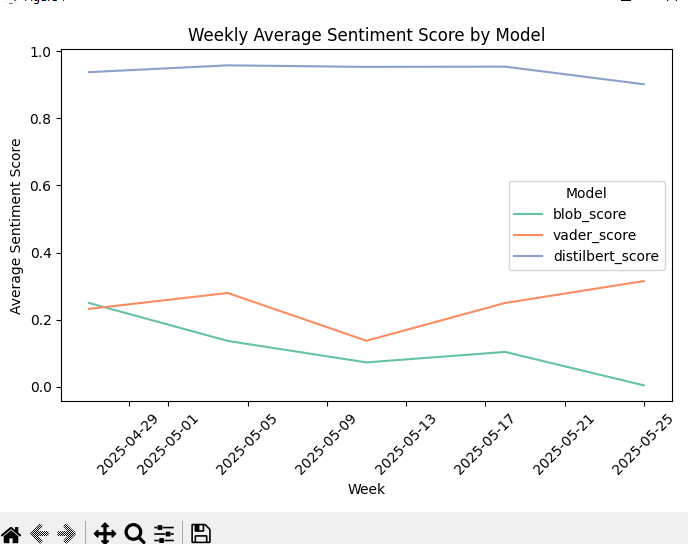
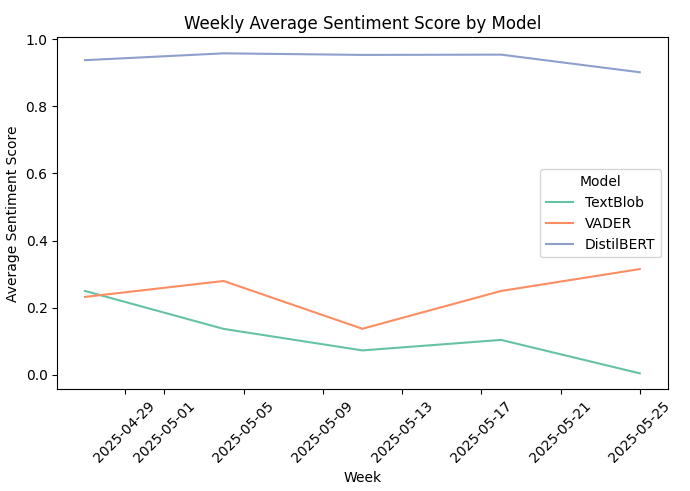
Added comments and updated plot

diff --git a/news_sentiment_analysis.py b/news_sentiment_analysis.py
@@ -1,4 +1,3 @@
-import numpy as np
 import pandas as pd
 import json
 import datetime
@@ -8,6 +7,10 @@ from textblob import TextBlob
 from nltk.sentiment.vader import SentimentIntensityAnalyzer
 from transformers import pipeline
 
+'''
+    Using api key to get the news articles on a specific topic from NewsAPI
+    saving the json data in a json file for easier access
+'''
 # API_key = 'YourAPIKey'
 
 # newsapi = NewsApiClient(API_key)
@@ -16,6 +19,10 @@ from transformers import pipeline
 # with open('newsapi_data.json', 'w') as json_file:
 #         json.dump(all_articles, json_file, indent=4)
 
+
+
+# TextBlob is a Python library that returns Polarity scores
+# Based on this score the Positive, Negative, and Neutral labels are determined
 def apply_textblob(text):
     blob = TextBlob(text)
     polarity = blob.sentiment.polarity
@@ -26,6 +33,8 @@ def apply_textblob(text):
     )
     return sentiment, round(polarity, 3)
 
+# VADER is a rule-based sentiment analysis tool that returns Positive, Negative, Neutral and Compound scores
+# Higher Compound value means the text is Positive and lower means Negative otherwise it's Neutral
 def apply_vader(text):
     vader = SentimentIntensityAnalyzer()
     polarity = vader.polarity_scores(text)['compound']
@@ -36,30 +45,42 @@ def apply_vader(text):
     )
     return sentiment, round(polarity, 3)
 
+# using a pre-trained sentiment analysis model from Hugging Face that returns only Positive and Negative sentiments
 def apply_distilbert(text):
     distilbert = pipeline("sentiment-analysis", model="distilbert-base-uncased-finetuned-sst-2-english", framework="pt")
     results = distilbert(text)
 
     return results 
 
+# using a pre-trained classification model from Hugging Face that returns multi-label sentiments from texts
 def apply_roberta(text):
     roberta = pipeline("text-classification", model="j-hartmann/emotion-english-distilroberta-base", 
                     framework="pt")
     results = roberta(text)
     return results 
 
-
+# using encoding= utf-8 to get all characters including non-english (if exist)
 with open("newsapi_data.json", 'r', encoding='utf-8') as json_file:
     data = json.load(json_file)
 
+# storing the 'articles' list from the json file
 if "articles" in data:
     articles = data["articles"]
 
 contents = []
 for article in articles:
+    '''
+        looping through every article and making the title and description into one content to apply the models
+        only using raw texts to see how each model performs on the same content
+        TextBlob and VADER can process one content at a time but DistilBERT and RoBERTa makes the program slow
+        for this reason we created the contents list for those two models
+        using contents in a batch to train the models
+    '''
     content = f"{article.get('title', '')}.{article.get('description','')}"
     contents.append(content)
 
+    # the models return the label and the score used to determine the labels
+    # storing these values in new label and score for every model columns
     blob_label, blob_score = apply_textblob(content)
     article['blob_label'] = blob_label
     article['blob_score'] = blob_score
@@ -68,11 +89,14 @@ for article in articles:
     article['vader_label'] = vader_label
     article['vader_score'] = vader_score
     
+    # Changed the date format and set it to year-month-day format
     date = article.get('publishedAt', '')
     date = datetime.datetime.strptime(date, '%Y-%m-%dT%H:%M:%SZ')
     date = date.strftime('%Y-%m-%d')
     article['date'] = date
 
+# these two models return the labels and scores in a list of dictionaries
+# using contents in a batch to make the program faster
 distilbert_results = apply_distilbert(contents)
 for article, result in zip(articles, distilbert_results):
     article['distilbert_label'] = result['label']
@@ -86,10 +110,10 @@ for article, result in zip(articles, roberta_results):
 # Turning the list into a pandas dataframe
 df = pd.DataFrame(articles)
 df = df.drop(['author', 'title', 'description', 'publishedAt', 'url', 'urlToImage', 'content'], axis=1)
-df['source'] = [s.get('name', '') for s in df['source']]
+df['source'] = [s.get('name', '') for s in df['source']] # 'source' is a dictionary and I'm choosing to keep only the name
 
 # Selecting the final columns
 df = df[['date', 'source', 'blob_label', 'blob_score', 'vader_label', 'vader_score',
               'distilbert_label', 'distilbert_score', 'roberta_label', 'roberta_score']]
 
-# df.to_csv('news_data.csv', index=False)
+# df.to_csv('news_data.csv', index=False) # saved the df to csv to use it for the plots

diff --git a/news_plot.py b/news_plot.py
@@ -17,7 +17,7 @@ ax = ax.flatten() # this turns the nested array into a single array. it helps to
 
 ###### Plotting the model sentiments #######
 for i, model in enumerate(models):
-    sns.countplot(x=df[model], palette='rainbow', ax=ax[i])
+    sns.countplot(x=df[model], palette='rainbow', ax=ax[i]) # like a bar chart it shows the occurences of classes
 
     ax[i].set_title(f'Sentiment Distribution of {titles[i]}')
     ax[i].set_xlabel('Sentiment')
@@ -26,14 +26,33 @@ for i, model in enumerate(models):
 
 ######### Plotting average model scores per week ######## 
 # Resampling to weekly averages
-df['date'] = pd.to_datetime(df['date'])
+df['date'] = pd.to_datetime(df['date']) # turning into datetime object to set it to index
 df.set_index('date', inplace=True)
-score_df = df.resample('W')[['blob_score', 'vader_score', 'distilbert_score']].mean()
-score_df = score_df.reset_index()
+score_df = df.resample('W')[['blob_score', 'vader_score', 'distilbert_score']].mean() # resampling to get the average weekly data
+score_df = score_df.reset_index() # resetting index for melting
+
+'''
+    using melt we turn the blob_score, vader_score, distilbert_score columns into rows that is in the 'Model' column
+    each model has it's score on the column next to it
+
+    such as,
+    Model       Score
+    blob_score  0.117
+    vader_score 0.997 .... and so on
+
+    easier to plot the models 
+'''
 score_df_melted = score_df.melt(id_vars='date',
                                value_vars=['blob_score', 'vader_score', 'distilbert_score'],
                                var_name='Model',
                                value_name='Score')
+
+# renaming the models to get a cleaner visual
+score_df_melted = score_df_melted.replace({
+    'blob_score': 'TextBlob',
+    'vader_score': 'VADER',
+    'distilbert_score': 'DistilBERT'
+})
 
 plt.figure(figsize=(7,5))
 sns.lineplot(data=score_df_melted, x='date', y='Score', hue='Model', palette='Set2')
